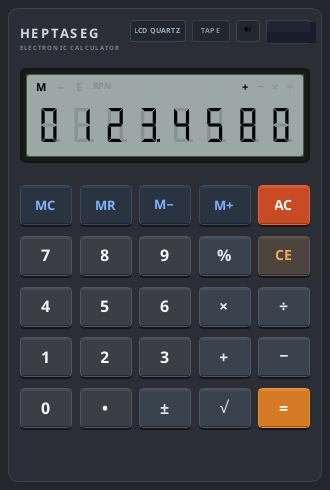
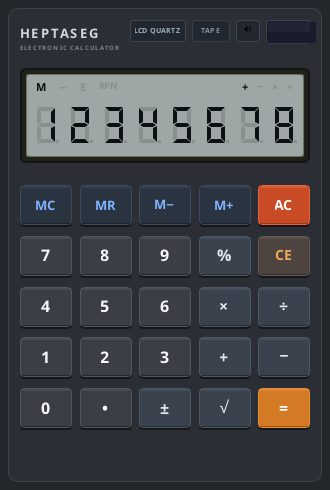
style(ui): align 7-segment vector geometry to exact integer pixel coordinates

diff --git a/examples/snapshot.rs b/examples/snapshot.rs
@@ -24,16 +24,16 @@ fn apply_theme(window: &AppWindow, theme: DisplayTheme) {
 fn take_theme_snapshot(theme: DisplayTheme, out_png: &str) {
     let window = AppWindow::new().unwrap();
     let digits = vec![
-        SharedString::from("0"),
         SharedString::from("1"),
         SharedString::from("2"),
         SharedString::from("3"),
         SharedString::from("4"),
         SharedString::from("5"),
+        SharedString::from("6"),
+        SharedString::from("7"),
         SharedString::from("8"),
-        SharedString::from("0"),
     ];
-    let decimals = vec![false, false, false, true, false, false, false, false];
+    let decimals = vec![false, false, false, false, false, false, false, false];
 
     window.set_digits(ModelRc::from(Rc::new(VecModel::from(digits))));
     window.set_decimals(ModelRc::from(Rc::new(VecModel::from(decimals))));
@@ -60,7 +60,6 @@ fn take_theme_snapshot(theme: DisplayTheme, out_png: &str) {
         header.push(pixel.b);
     }
     std::fs::write(&ppm_path, header).unwrap();
-    println!("Saved PPM: {}", ppm_path);
 }
 
 fn main() {

diff --git a/src/core/types.rs b/src/core/types.rs
@@ -131,10 +131,10 @@ impl DisplayTheme {
     /// Returns the (background, active_ink, ghost_ink, bezel_border) hex color strings.
     pub fn colors(&self) -> (&'static str, &'static str, &'static str, &'static str) {
         match self {
-            DisplayTheme::ClassicLcd => ("#859870", "#050a04", "#748760", "#3a4430"),
-            DisplayTheme::QuartzLcd => ("#9ba8a6", "#020405", "#849290", "#3d4645"),
-            DisplayTheme::VfdCyan => ("#050c10", "#00ffd5", "#082b26", "#0e1a20"),
-            DisplayTheme::SinclairLed => ("#140204", "#ff1e2e", "#38060a", "#2e060a"),
+            DisplayTheme::ClassicLcd => ("#899975", "#141c11", "#788866", "#82926e"),
+            DisplayTheme::QuartzLcd => ("#9ea7a6", "#0c1012", "#87908f", "#929b9a"),
+            DisplayTheme::VfdCyan => ("#081014", "#00f5d4", "#003832", "#111f26"),
+            DisplayTheme::SinclairLed => ("#180406", "#ff1e2e", "#3d070b", "#33080c"),
         }
     }
 }
